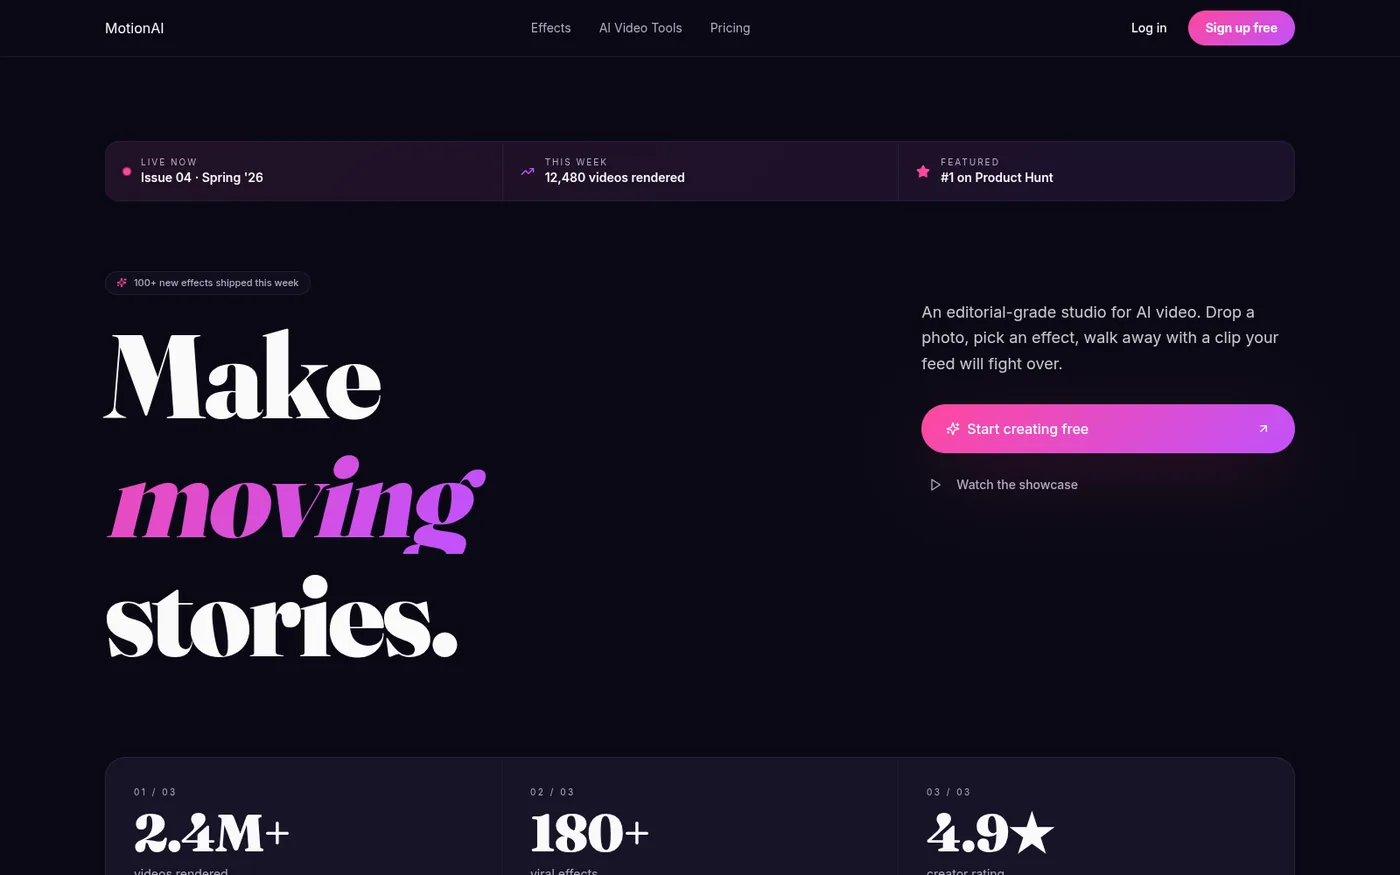
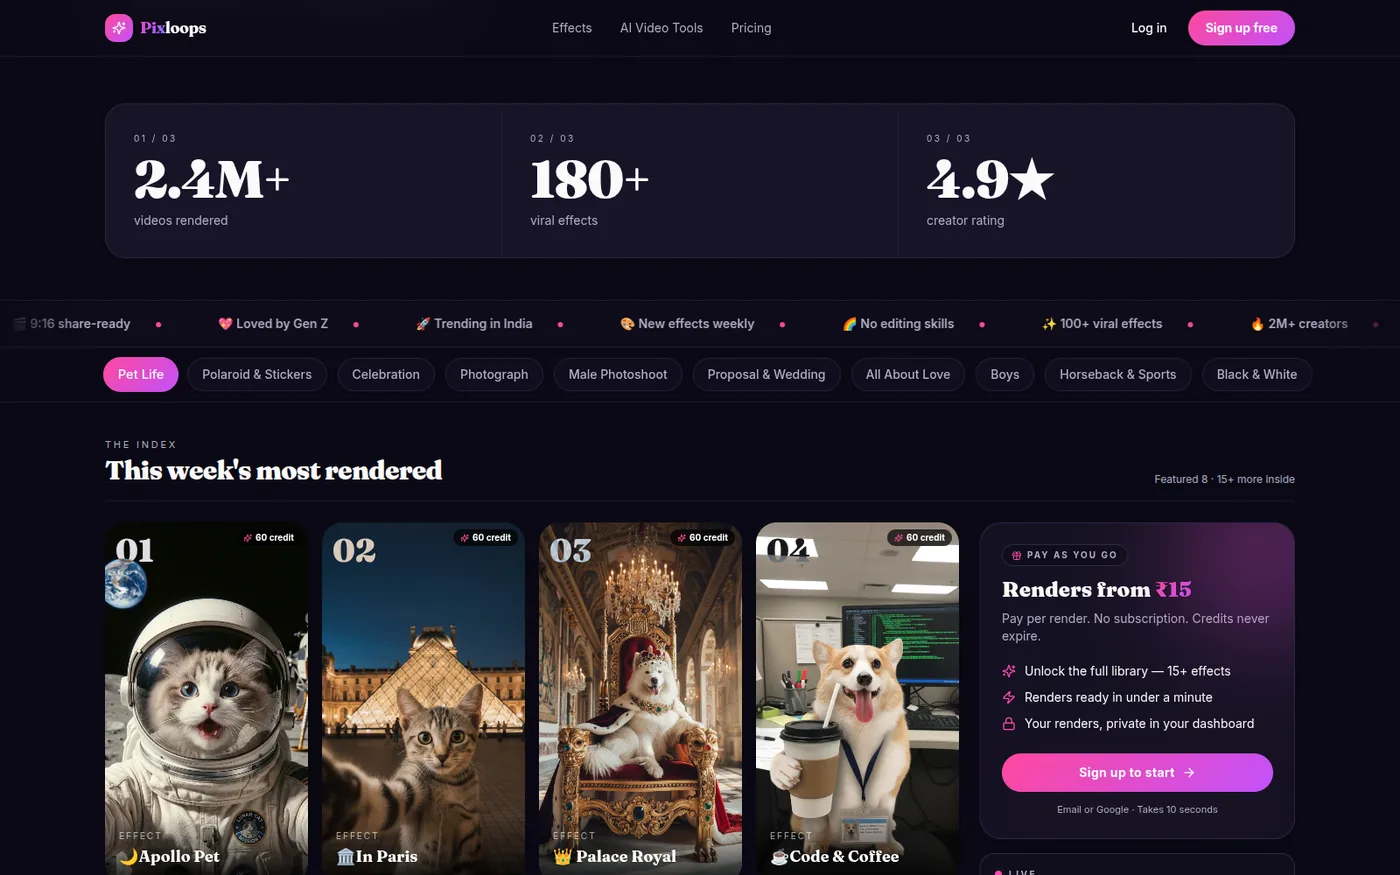
Add Sportscast (rebuilt SportsLive) as newest project; refresh MotionAI thumbnail + link to pixloops.app

diff --git a/src/content.js b/src/content.js
@@ -1,5 +1,5 @@
 // ── Central content file — edit your info here ─────────────────────────────
-import Workm1 from './assets/project-m1.webp';
+import WorkSportscast from './assets/project-sportscast.webp';
 import Work0 from './assets/project-0.webp';
 import Work1 from './assets/project-1.webp';
 import Work2 from './assets/project-2.webp';
@@ -107,6 +107,16 @@ export const certifications = [
 
 export const projects = [
   {
+    id: 17,
+    img: WorkSportscast,
+    title: 'Sportscast',
+    desc: 'Live football scores, fixtures, 3D formation pitch, match stats and an RSS news hub — React 19 + anime.js front, Express 5 + MongoDB API, shipped with Docker.',
+    stack: ['React', 'anime.js', 'Express', 'MongoDB', 'Docker'],
+    link: 'https://sportscast-web.onrender.com/',
+    repo: 'https://github.com/aravindshajan6/SportsLive',
+    featured: true,
+  },
+  {
     id: 1,
     img: WorkLoan,
     title: 'Loan Management System',
@@ -128,9 +138,9 @@ export const projects = [
     id: 15,
     img: WorkMotionAI,
     title: 'MotionAI',
-    desc: 'Editorial-grade AI video studio — drop a photo, pick an effect, get a social-ready motion clip.',
+    desc: 'Editorial-grade AI video studio (live as Pixloops) — drop a photo, pick an effect, get a social-ready motion clip.',
     stack: ['React', 'AI Video', 'Templates'],
-    link: null,
+    link: 'https://pixloops.app/',
     featured: true,
   },
   {
@@ -167,15 +177,6 @@ export const projects = [
     desc: 'Chat and video calls in the browser, built on the Stream SDK with JWT auth.',
     stack: ['React', 'Stream SDK', 'Express', 'MongoDB'],
     link: 'https://github.com/aravindshajan6/StreamGen',
-    featured: true,
-  },
-  {
-    id: 4,
-    img: Workm1,
-    title: 'SportsLive',
-    desc: 'Live football scores and news, pulled from an open sports API.',
-    stack: ['React', 'Express', 'MongoDB'],
-    link: 'https://sports-live-api.netlify.app/',
     featured: true,
   },
   {
